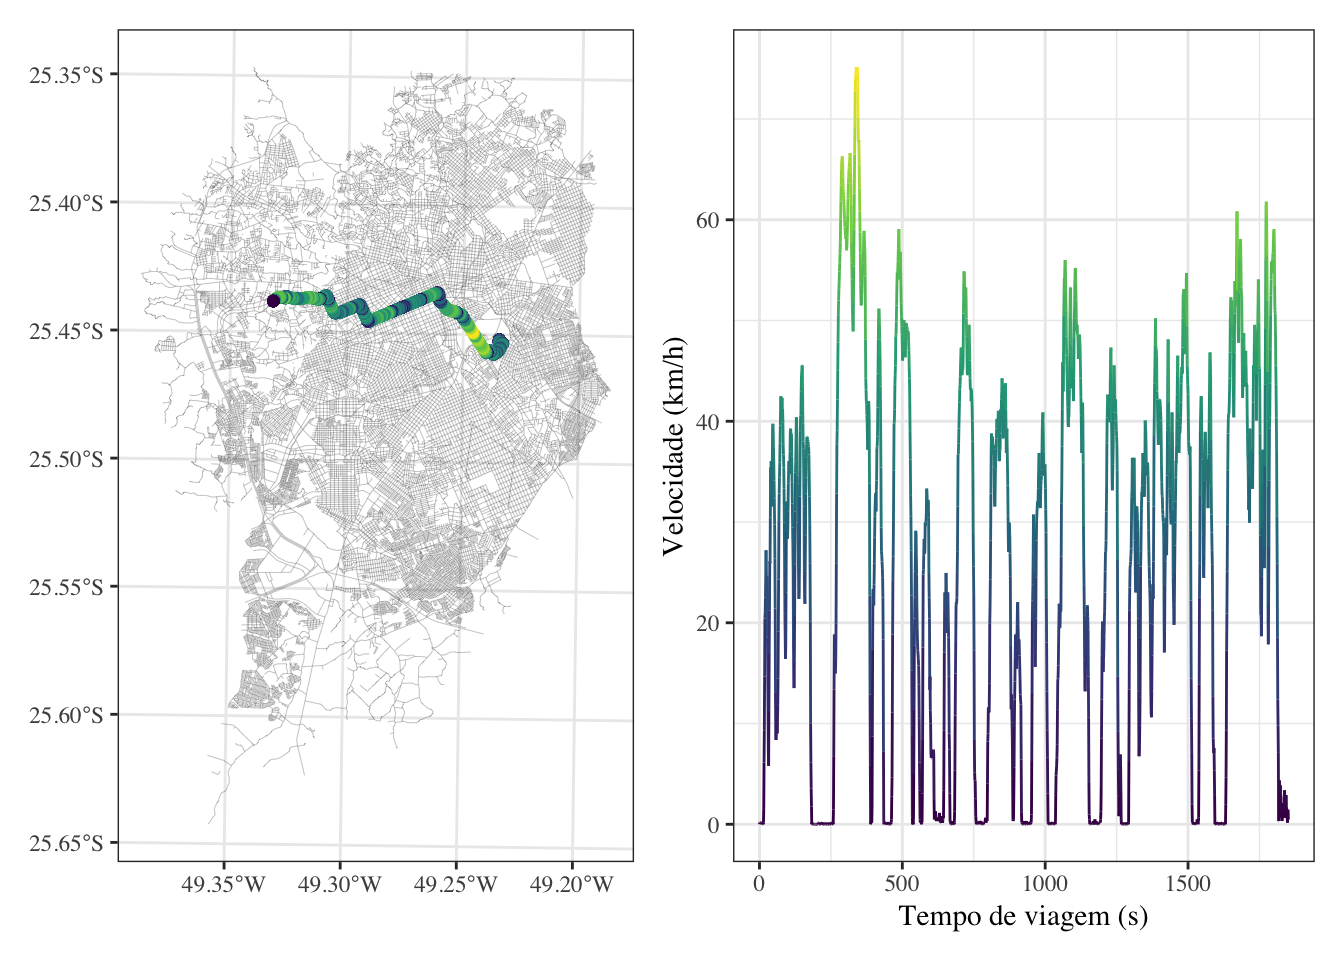
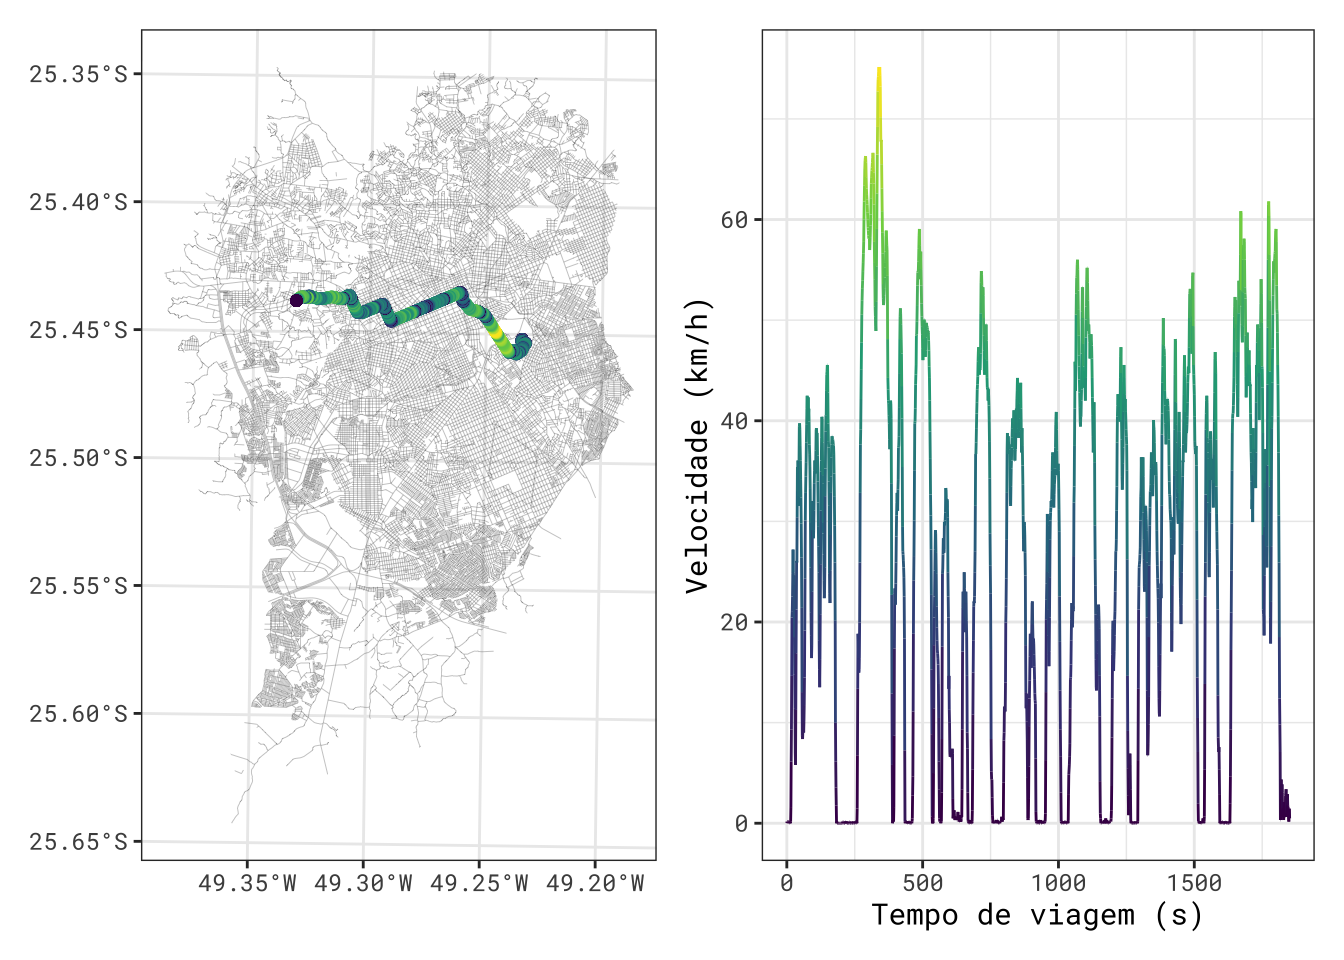
fix: ajusta fonte dos plots

diff --git a/docs/posts/ndsbr/ndsbr.html b/docs/posts/ndsbr/ndsbr.html
@@ -178,7 +178,7 @@ div.csl-indent {
     <div>
     <div class="quarto-title-meta-heading">Data de Publicação</div>
     <div class="quarto-title-meta-contents">
-      <p class="date">9 de dezembro de 2024</p>
+      <p class="date">15 de dezembro de 2024</p>
     </div>
   </div>
   
@@ -249,7 +249,7 @@ div.csl-indent {
 <span id="cb4-2"><a href="#cb4-2" aria-hidden="true" tabindex="-1"></a>vias_cwb <span class="ot">&lt;-</span> <span class="fu">nds_download_sf</span>(url_vias_cwb)</span></code><button title="Copiar para a área de transferência" class="code-copy-button"><i class="bi"></i></button></pre></div>
 <div class="cell-output cell-output-stdout">
 <pre><code>Reading layer `EIXO_RUA' from data source 
[2 lines of base64/hex data omitted]
   using driver `ESRI Shapefile'
 Simple feature collection with 40355 features and 21 fields
 Geometry type: MULTILINESTRING
@@ -260,7 +260,7 @@ Projected CRS: SIRGAS 2000 / UTM zone 22S</code></pre>
 </div>
 <p>Por fim, com auxílio do {ggplot2} é possível visualizar a velocidade praticada no trajeto da viagem A05 e também o perfil de velocidade ao longo do tempo de viagem.</p>
 <div class="cell page-columns page-full">
-<div class="sourceCode cell-code" id="cb6"><pre class="sourceCode r code-with-copy"><code class="sourceCode r"><span id="cb6-1"><a href="#cb6-1" aria-hidden="true" tabindex="-1"></a><span class="fu">theme_set</span>(<span class="fu">theme_bw</span>(<span class="at">base_family =</span> <span class="st">'serif'</span>))</span>
+<div class="sourceCode cell-code" id="cb6"><pre class="sourceCode r code-with-copy"><code class="sourceCode r"><span id="cb6-1"><a href="#cb6-1" aria-hidden="true" tabindex="-1"></a><span class="fu">theme_set</span>(<span class="fu">theme_bw</span>(<span class="at">base_family =</span> <span class="st">"roboto"</span>))</span>
 <span id="cb6-2"><a href="#cb6-2" aria-hidden="true" tabindex="-1"></a></span>
 <span id="cb6-3"><a href="#cb6-3" aria-hidden="true" tabindex="-1"></a>map <span class="ot">&lt;-</span> <span class="fu">ggplot</span>() <span class="sc">+</span></span>
 <span id="cb6-4"><a href="#cb6-4" aria-hidden="true" tabindex="-1"></a>    <span class="fu">geom_sf</span>(<span class="at">data =</span> vias_cwb, <span class="at">color =</span> <span class="st">"grey20"</span>, <span class="at">lwd =</span> <span class="fl">0.1</span>, <span class="at">alpha =</span> <span class="fl">0.5</span>) <span class="sc">+</span></span>

diff --git a/docs/blog.html b/docs/blog.html
@@ -187,7 +187,7 @@ window.Quarto = {
 
 <div class="quarto-listing quarto-listing-container-default" id="listing-listing">
 <div class="list quarto-listing-default">
-<div class="quarto-post image-right" data-index="0" data-listing-date-sort="1734025034000" data-listing-file-modified-sort="1734025034183" data-listing-date-modified-sort="NaN" data-listing-reading-time-sort="3" data-listing-word-count-sort="407">
+<div class="quarto-post image-right" data-index="0" data-listing-date-sort="1734303411000" data-listing-file-modified-sort="1734303411309" data-listing-date-modified-sort="NaN" data-listing-reading-time-sort="3" data-listing-word-count-sort="413">
 <div class="thumbnail">
 <p><a href="./posts/rtdeaths/rtdeaths.html" class="no-external"></a></p><a href="./posts/rtdeaths/rtdeaths.html" class="no-external">
 <p class="card-img-top"><img src="posts/rtdeaths/rtdeaths_files/figure-html/fig-obitos-1.png"  class="thumbnail-image card-img"/></p>
@@ -207,7 +207,7 @@ window.Quarto = {
 <div class="metadata">
 <a href="./posts/rtdeaths/rtdeaths.html" class="no-external">
 <div class="listing-date">
-12 de dez. de 2024
+15 de dez. de 2024
 </div>
 <div class="listing-author">
 Pedro Borges
@@ -215,7 +215,7 @@ Pedro Borges
 </a>
 </div>
 </div>
-<div class="quarto-post image-right" data-index="1" data-listing-date-sort="1733777459000" data-listing-file-modified-sort="1733777459326" data-listing-date-modified-sort="NaN" data-listing-reading-time-sort="4" data-listing-word-count-sort="673">
+<div class="quarto-post image-right" data-index="1" data-listing-date-sort="1734303344000" data-listing-file-modified-sort="1734303344731" data-listing-date-modified-sort="NaN" data-listing-reading-time-sort="4" data-listing-word-count-sort="679">
 <div class="thumbnail">
 <p><a href="./posts/ndsbr/ndsbr.html" class="no-external"></a></p><a href="./posts/ndsbr/ndsbr.html" class="no-external">
 <p class="card-img-top"><img src="posts/ndsbr/ndsbr_files/figure-html/fig-plot-1.png"  class="thumbnail-image card-img"/></p>
@@ -235,7 +235,7 @@ Pedro Borges
 <div class="metadata">
 <a href="./posts/ndsbr/ndsbr.html" class="no-external">
 <div class="listing-date">
-9 de dez. de 2024
+15 de dez. de 2024
 </div>
 <div class="listing-author">
 Pedro Borges

diff --git a/docs/posts/rtdeaths/rtdeaths.html b/docs/posts/rtdeaths/rtdeaths.html
@@ -178,7 +178,7 @@ div.csl-indent {
     <div>
     <div class="quarto-title-meta-heading">Data de Publicação</div>
     <div class="quarto-title-meta-contents">
-      <p class="date">12 de dezembro de 2024</p>
+      <p class="date">15 de dezembro de 2024</p>
     </div>
   </div>
   
@@ -249,7 +249,7 @@ div.csl-indent {
 <span id="cb4-5"><a href="#cb4-5" aria-hidden="true" tabindex="-1"></a>    <span class="fu">geom_line</span>() <span class="sc">+</span></span>
 <span id="cb4-6"><a href="#cb4-6" aria-hidden="true" tabindex="-1"></a>    <span class="fu">geom_point</span>(<span class="at">pch =</span> <span class="dv">21</span>, <span class="at">fill =</span> <span class="st">"white"</span>, <span class="at">size =</span> <span class="dv">2</span>) <span class="sc">+</span></span>
 <span id="cb4-7"><a href="#cb4-7" aria-hidden="true" tabindex="-1"></a>    <span class="fu">labs</span>(<span class="at">x =</span> <span class="cn">NULL</span>, <span class="at">y =</span> <span class="cn">NULL</span>, <span class="at">color =</span> <span class="st">"Região:"</span>) <span class="sc">+</span></span>
-<span id="cb4-8"><a href="#cb4-8" aria-hidden="true" tabindex="-1"></a>    <span class="fu">theme_bw</span>(<span class="at">base_family =</span> <span class="st">"serif"</span>) <span class="sc">+</span></span>
+<span id="cb4-8"><a href="#cb4-8" aria-hidden="true" tabindex="-1"></a>    <span class="fu">theme_bw</span>(<span class="at">base_family =</span> <span class="st">"roboto"</span>) <span class="sc">+</span></span>
 <span id="cb4-9"><a href="#cb4-9" aria-hidden="true" tabindex="-1"></a>    <span class="fu">theme</span>(</span>
 <span id="cb4-10"><a href="#cb4-10" aria-hidden="true" tabindex="-1"></a>        <span class="at">legend.position =</span> <span class="st">"top"</span>,</span>
 <span id="cb4-11"><a href="#cb4-11" aria-hidden="true" tabindex="-1"></a>        <span class="at">legend.direction =</span> <span class="st">"horizontal"</span>,</span>
